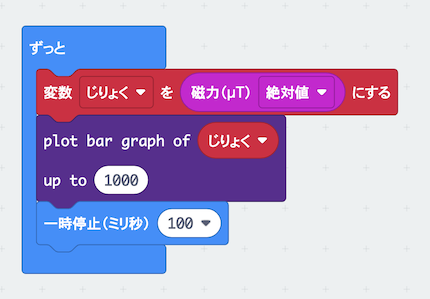
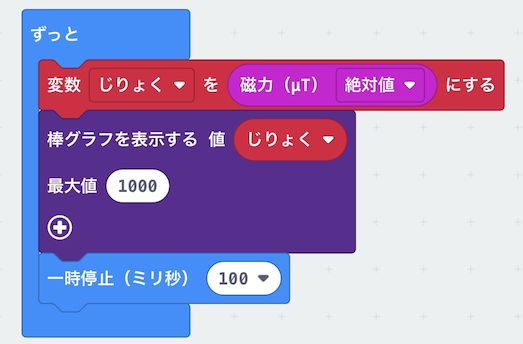
Update program and description

diff --git a/program/melody2.md b/program/melody2.md
@@ -1,0 +1,23 @@
+# もっとメロディーをならそう
+
+## むずかしさ　★☆☆☆☆
+
+## 使うもの
+1. マイクロビット本体
+
+## プログラム
+
+<img width="320" src="./melody2.png">
+
+
+プロジェクト： https://makecode.microbit.org/_XwEeR6LP7Wxb
+
+## 作り方
+
+1. プログラムをマイクロビットに書きこみます
+
+## 使い方
+
+* `Aボタン`をおすと、どこかのお店でで聞いたことのあるメロディーがながれます
+* `Bボタン`をおすと、どこかのお店で聞いたことのあるメロディーがながれます
+

diff --git a/program/treasure.md b/program/treasure.md
@@ -16,7 +16,7 @@
 ## 作り方
 
 1. 変数`チャンネル`と`つよさ`を作ります
-2. `plot bar graph of`のブロックは、LEDのメニューにあります
+2. `棒グラフを表示する`のブロックは、LEDのメニューにあります
 3. プログラムをマイクロビットに書きこみます
 4. 電池ボックスをつなぎます
 

diff --git a/program/mag.md b/program/mag.md
@@ -14,7 +14,7 @@
 ## 作り方
 
 1. 変数`じりょく`を作ります
-2. `plot bar graph`のブロックは、`LED`メニューにあります
+2. `棒グラフを表示する`のブロックは、`LED`メニューにあります
 3. プログラムをマイクロビットに書きこみます
 
 ## 使い方

diff --git a/README.md b/README.md
@@ -7,6 +7,7 @@
 * [ひみつの通信機を作ろう](./program/ble.md)
 * [たからさがしゲームで遊ぼう](./program/treasure.md)
 * [メロディーをならそう](./program/melody.md)
+* [もっとメロディーをならそう](./program/melody2.md)
 
 
 ---
